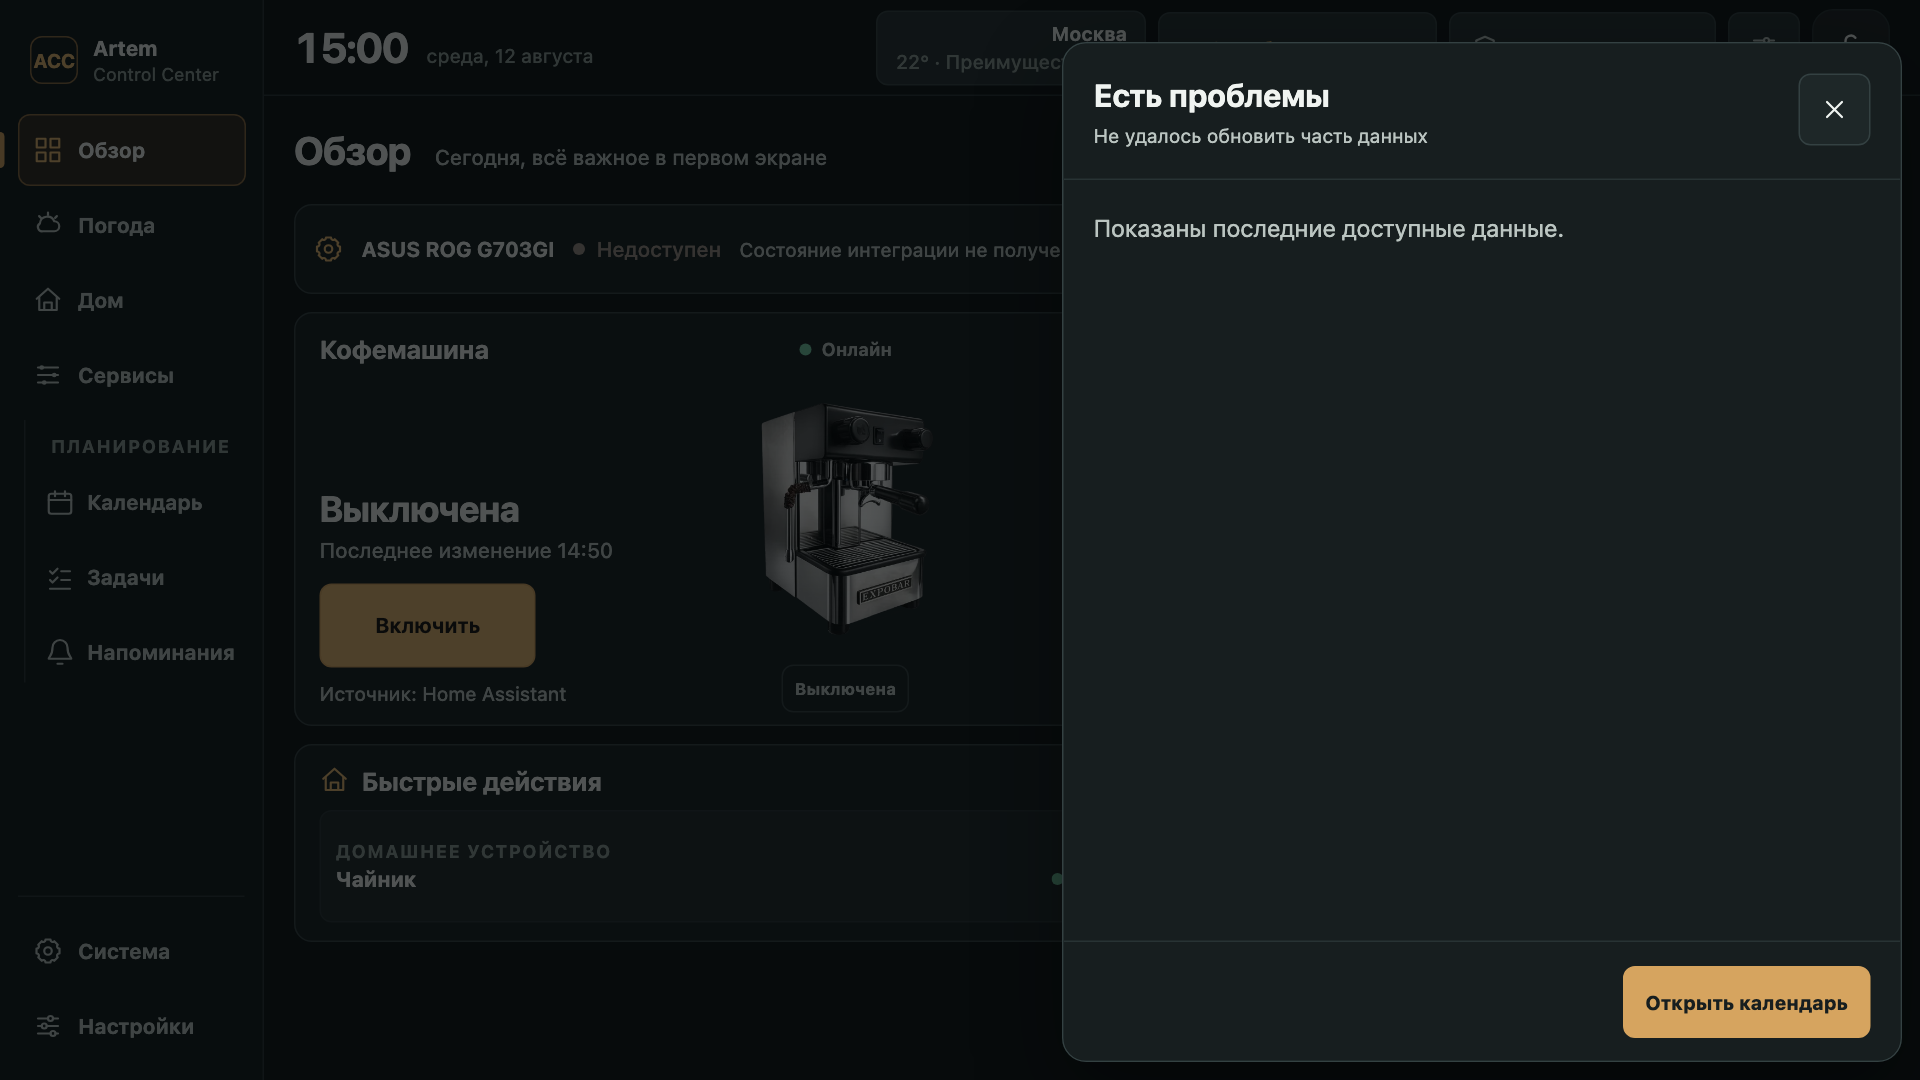
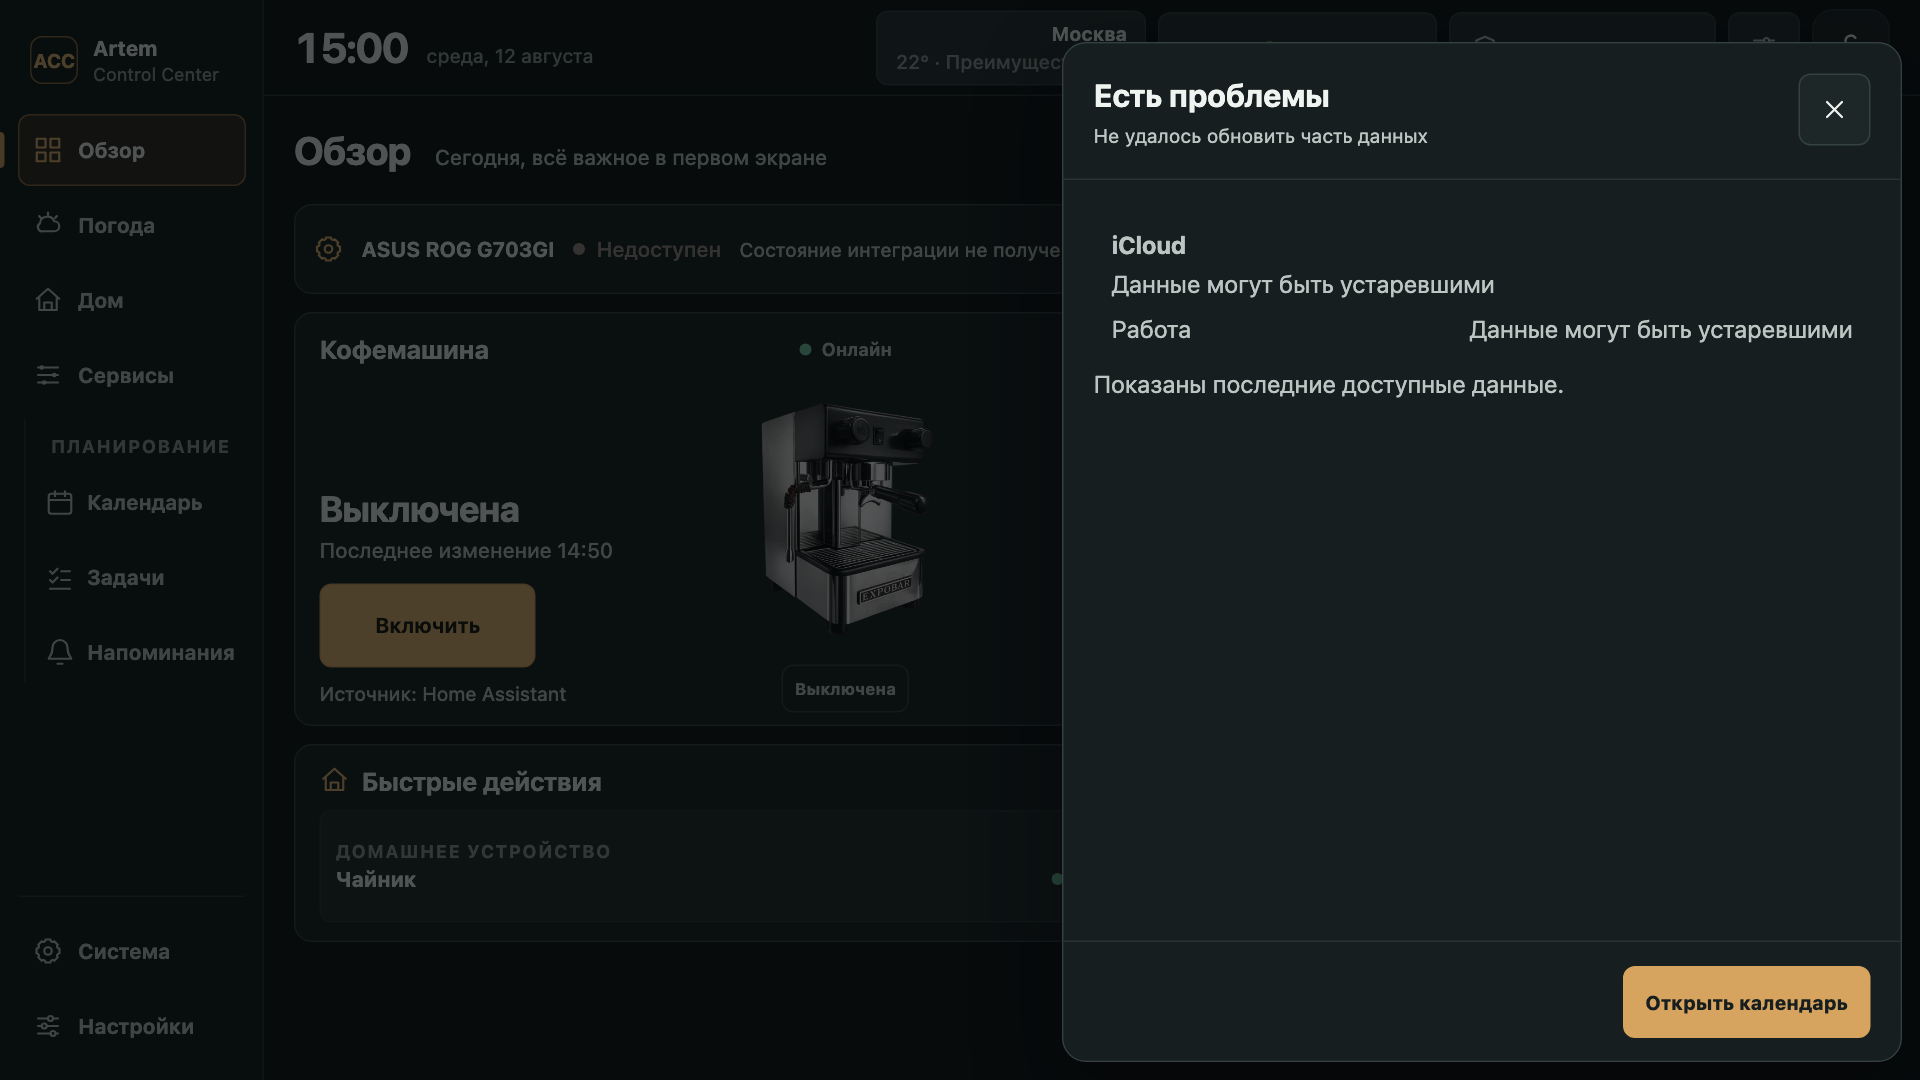
fix: explain planning health source issues

Changed region(s): [[0.5625, 0.1833, 0.8125, 0.275], [0.5625, 0.3056, 0.8438, 0.3667], [0.875, 0.3056, 0.9688, 0.3361]]

diff --git a/tests/e2e/issue-112-slice-b1.spec.ts b/tests/e2e/issue-112-slice-b1.spec.ts
@@ -1,7 +1,12 @@
 import { mkdir } from "node:fs/promises";
 import path from "node:path";
 import { expect, test, type Page, type TestInfo } from "@playwright/test";
-import type { PlanningCalendarEvent, PlanningSnapshot } from "../../packages/contracts/src/index";
+import type {
+  PlanningCalendarEvent,
+  PlanningProviderFreshnessStatus,
+  PlanningProviderStatus,
+  PlanningSnapshot
+} from "../../packages/contracts/src/index";
 import { planningFixtures } from "../../apps/dashboard/src/planningFixtures";
 
 const b1Enabled = [
@@ -121,6 +126,51 @@ async function installPlanningSnapshot(
     payload.planning = planning;
     await route.fulfill({ response, body: JSON.stringify(payload) });
   });
+}
+
+async function installUnavailablePlanningSnapshot(
+  page: Page,
+  getState: () => { revision: number }
+): Promise<void> {
+  await page.route("**/api/v1/snapshot**", async (route) => {
+    const response = await route.fetch();
+    const payload = await response.json() as Record<string, unknown>;
+    payload.revision = getState().revision;
+    delete payload.planning;
+    await route.fulfill({ response, body: JSON.stringify(payload) });
+  });
+}
+
+function providerStatus(
+  overrides: Partial<PlanningProviderStatus> & Pick<PlanningProviderStatus, "label" | "provider" | "status">
+): PlanningProviderStatus {
+  return {
+    id: `${overrides.provider}-source`,
+    kind: overrides.provider === "icloud" ? "external" : "native",
+    provider: overrides.provider,
+    label: overrides.label,
+    status: overrides.status,
+    configured: true,
+    lastSyncedAt: "2026-08-12T09:00:00Z",
+    observedAt: "2026-08-12T09:00:00Z",
+    calendars: [],
+    ...overrides
+  };
+}
+
+function calendarStatus(
+  label: string,
+  status: PlanningProviderFreshnessStatus
+): PlanningProviderStatus["calendars"][number] {
+  return {
+    id: label.toLowerCase(),
+    label,
+    color: "#E7B64A",
+    enabled: true,
+    status,
+    lastSyncedAt: "2026-08-12T09:00:00Z",
+    observedAt: "2026-08-12T09:00:00Z"
+  };
 }
 
 async function installCalendarFixture(
@@ -375,6 +425,15 @@ test.describe("Issue #112 Slice B1 physical polish", () => {
     await installSse(page);
     await installPlanningSnapshot(page, () => state, (planning) => {
       planning.calendar = { today: [], upcoming: [timedEvent], conflicts: [] };
+      planning.providerStatuses = [
+        providerStatus({
+          label: "iCloud",
+          provider: "icloud",
+          status: "stale",
+          calendars: [calendarStatus("Работа", "stale")]
+        }),
+        providerStatus({ label: "Local Planning", provider: "local", status: "current" })
+      ];
     });
     await installCalendarFixture(page, () => state, () => [timedEvent]);
     await page.goto("/overview");
@@ -382,8 +441,15 @@ test.describe("Issue #112 Slice B1 physical polish", () => {
     await expect(healthAction).toHaveText("Есть проблемы");
     await expect(healthAction).toHaveAttribute("aria-haspopup", "dialog");
     await healthAction.click();
-    await expect(page.getByTestId("planning-overview-health-details")).toContainText("Не удалось обновить часть данных");
-    await expect(page.getByTestId("planning-overview-health-details")).toContainText("Показаны последние доступные данные");
+    const healthDetails = page.getByTestId("planning-overview-health-details");
+    await expect(healthDetails).toContainText("iCloud");
+    await expect(healthDetails).toContainText("Данные могут быть устаревшими");
+    await expect(healthDetails).toContainText("Работа");
+    await expect(healthDetails).not.toContainText("Local Planning");
+    await expect(healthDetails.getByRole("button", { name: "Открыть календарь" })).toBeVisible();
+    await expect(healthDetails).not.toContainText("stale");
+    await expect(healthDetails).not.toContainText("error");
+    await expect(healthDetails).not.toContainText("API");
     await capture(page, testInfo, "overview-degraded-health-details.png");
     await page.getByTestId("planning-overview-health-details").getByRole("button", { name: "Закрыть" }).click();
 
@@ -394,6 +460,60 @@ test.describe("Issue #112 Slice B1 physical polish", () => {
     await capture(page, testInfo, "overview-calendar-deep-link.png");
     await page.getByRole("button", { name: "Сегодня" }).click();
     await expect(page.getByTestId("planning-calendar-selected-day-heading")).toContainText("12 августа");
+  });
+
+  test("Overview health details name only safe abnormal sources and fall back when the aggregate cannot identify one", async ({ page }) => {
+    const state = { revision: 1, status: "degraded" };
+    await installSse(page);
+    await installPlanningSnapshot(page, () => state, (planning) => {
+      planning.providerStatuses = [
+        providerStatus({
+          label: "iCloud",
+          provider: "icloud",
+          status: "error",
+          calendars: [calendarStatus("Семья", "error")]
+        }),
+        providerStatus({ label: "Local Planning", provider: "local", status: "current" })
+      ];
+    });
+    await page.goto("/overview");
+    await page.getByTestId("planning-overview-health-action").click();
+    const details = page.getByTestId("planning-overview-health-details");
+    await expect(details).toContainText("iCloud");
+    await expect(details).toContainText("Не удалось обновить данные");
+    await expect(details).toContainText("Семья");
+    await expect(details).not.toContainText("Local Planning");
+    await page.getByRole("button", { name: "Закрыть" }).click();
+
+    state.revision = 2;
+    await installPlanningSnapshot(page, () => state, (planning) => {
+      planning.providerStatuses = [
+        providerStatus({ label: "iCloud", provider: "icloud", status: "current" }),
+        providerStatus({ label: "Local Planning", provider: "local", status: "current" })
+      ];
+    });
+    await page.reload();
+    await page.getByTestId("planning-overview-health-action").click();
+    await expect(details).toContainText("Планирование сообщает о проблеме, но конкретный источник определить не удалось.");
+    await expect(details.getByRole("button", { name: "Открыть календарь" })).toHaveCount(0);
+  });
+
+  test("healthy and unavailable Overview states do not fabricate health source details", async ({ page }) => {
+    const healthyState = { revision: 1, status: "current" };
+    await installSse(page);
+    await installPlanningSnapshot(page, () => healthyState);
+    await page.goto("/overview");
+    await expect(page.getByTestId("planning-overview-health-action")).toHaveCount(0);
+
+    const unavailableState = { revision: 2 };
+    await installUnavailablePlanningSnapshot(page, () => unavailableState);
+    await page.reload();
+    await expect(page.getByTestId("planning-overview-health-action")).toHaveText("Планирование недоступно");
+    await page.getByTestId("planning-overview-health-action").click();
+    const details = page.getByTestId("planning-overview-health-details");
+    await expect(details).toContainText("Данные планирования сейчас недоступны.");
+    await expect(details.getByRole("button", { name: "Открыть календарь" })).toHaveCount(0);
+    await expect(details).not.toContainText("Local Planning");
   });
 
   test("all-day Overview events preserve their canonical date and invalid Calendar dates safely fall back to today", async ({ page }) => {

diff --git a/apps/dashboard/src/PlanningOverviewCard.tsx b/apps/dashboard/src/PlanningOverviewCard.tsx
@@ -1,5 +1,5 @@
 import { useEffect, useState } from "react";
-import type { PlanningSnapshot } from "@artem/contracts";
+import type { PlanningCalendarSourceCalendar, PlanningProviderFreshnessStatus, PlanningSnapshot } from "@artem/contracts";
 import type { ShellNavigationTarget } from "./Shell";
 import { Sheet } from "./Sheet";
 import { calendarLocalDateForEvent, calendarNavigationForDate, type CalendarNavigationTarget } from "./calendarNavigation";
@@ -95,6 +95,53 @@ function unavailableRowTitle(health: ReturnType<typeof planningHealthPresentatio
   return health.state === "offline" || health.state === "stale" ? "Данные недоступны" : emptyTitle;
 }
 
+type PlanningHealthProblem = {
+  provider: string;
+  kind: "native" | "external";
+  providerLabel: string;
+  providerStatus: string | null;
+  calendars: Array<{ label: string; status: string }>;
+};
+
+const MAX_HEALTH_PROVIDERS = 3;
+const MAX_HEALTH_CALENDARS = 2;
+
+function ownerFacingFreshness(status: PlanningProviderFreshnessStatus): string | null {
+  switch (status) {
+    case "stale":
+      return "Данные могут быть устаревшими";
+    case "error":
+      return "Не удалось обновить данные";
+    case "current":
+    case "disabled":
+    case "not_configured":
+      return null;
+  }
+}
+
+function abnormalCalendars(calendars: PlanningCalendarSourceCalendar[]): Array<{ label: string; status: string }> {
+  return calendars
+    .filter((calendar) => calendar.enabled)
+    .flatMap((calendar) => {
+      const status = ownerFacingFreshness(calendar.status);
+      return status ? [{ label: calendar.label, status }] : [];
+    })
+    .slice(0, MAX_HEALTH_CALENDARS);
+}
+
+function planningHealthProblems(planning: PlanningSnapshot): PlanningHealthProblem[] {
+  return planning.providerStatuses
+    .filter((provider) => provider.configured)
+    .flatMap((provider) => {
+      const providerStatus = ownerFacingFreshness(provider.status);
+      const calendars = abnormalCalendars(provider.calendars);
+      return providerStatus || calendars.length > 0
+        ? [{ provider: provider.provider, kind: provider.kind, providerLabel: provider.label, providerStatus, calendars }]
+        : [];
+    })
+    .slice(0, MAX_HEALTH_PROVIDERS);
+}
+
 function planningHealthDetail(health: ReturnType<typeof planningHealthPresentation>): { title: string; description: string; detail: string } {
   const retainedData = health.hasLastGoodData
     ? "Показаны последние доступные данные."
@@ -114,15 +161,20 @@ function planningHealthDetail(health: ReturnType<typeof planningHealthPresentati
 }
 
 function PlanningHealthAction({
+  planning,
   health,
   onNavigate
 }: {
+  planning?: PlanningSnapshot | null;
   health: ReturnType<typeof planningHealthPresentation>;
   onNavigate: (target: PlanningNavigationTarget) => void;
 }) {
   const [open, setOpen] = useState(false);
   if (health.state === "current" || !health.label) return null;
   const detail = planningHealthDetail(health);
+  const problems = planning ? planningHealthProblems(planning) : [];
+  const sourceCouldNotBeDetermined = Boolean(planning) && problems.length === 0;
+  const canOpenCalendar = problems.some((problem) => problem.kind === "external" && problem.provider === "icloud");
   return (
     <>
       <button
@@ -141,9 +193,37 @@ function PlanningHealthAction({
           description={detail.description}
           testId="planning-overview-health-details"
           onClose={() => setOpen(false)}
-          footer={<button type="button" className="planning-primary-button" onClick={() => onNavigate("/calendar")}>Открыть календарь</button>}
+          footer={canOpenCalendar ? (
+            <button type="button" className="planning-primary-button" onClick={() => onNavigate("/calendar")}>Открыть календарь</button>
+          ) : undefined}
         >
-          <p className="planning-overview-health-details__copy">{detail.detail}</p>
+          {!planning && <p className="planning-overview-health-details__copy">Данные планирования сейчас недоступны.</p>}
+          {sourceCouldNotBeDetermined && (
+            <p className="planning-overview-health-details__copy">
+              Планирование сообщает о проблеме, но конкретный источник определить не удалось.
+            </p>
+          )}
+          {problems.length > 0 && (
+            <ul className="planning-overview-health-details__problems" aria-label="Проблемные источники">
+              {problems.map((problem) => (
+                <li className="planning-overview-health-details__problem" key={`${problem.provider}:${problem.providerLabel}`}>
+                  <strong>{problem.providerLabel}</strong>
+                  {problem.providerStatus && <span>{problem.providerStatus}</span>}
+                  {problem.calendars.length > 0 && (
+                    <ul className="planning-overview-health-details__calendars">
+                      {problem.calendars.map((calendar) => (
+                        <li key={`${problem.provider}:${calendar.label}`}>
+                          <span>{calendar.label}</span>
+                          <span>{calendar.status}</span>
+                        </li>
+                      ))}
+                    </ul>
+                  )}
+                </li>
+              ))}
+            </ul>
+          )}
+          {planning && <p className="planning-overview-health-details__copy">{detail.detail}</p>}
         </Sheet>
       )}
     </>
@@ -172,9 +252,9 @@ export function PlanningOverviewCard({
             <p className="section-kicker">Планирование</p>
             <h2>Дела</h2>
           </div>
-          <PlanningHealthAction health={health} onNavigate={onNavigate} />
+          <PlanningHealthAction planning={planning} health={health} onNavigate={onNavigate} />
         </header>
-        <p className="planning-card__unavailable-copy">Данные пока недоступны. Повторите попытку.</p>
+        <p className="planning-card__unavailable-copy">Данные планирования сейчас недоступны.</p>
       </section>
     );
   }
@@ -207,7 +287,7 @@ export function PlanningOverviewCard({
           <p className="section-kicker">Планирование</p>
           <h2>Дела</h2>
         </div>
-        <PlanningHealthAction health={health} onNavigate={onNavigate} />
+        <PlanningHealthAction planning={planning} health={health} onNavigate={onNavigate} />
       </header>
 
       <div className="planning-card__rows">

diff --git a/apps/dashboard/src/styles.css b/apps/dashboard/src/styles.css
@@ -700,6 +700,36 @@ p { color: var(--text-secondary); }
 }
 .planning-card__health--action:hover { background: var(--surface-hover); }
 .planning-overview-health-details__copy { margin: 0; color: var(--text-secondary); line-height: 1.5; }
+.planning-overview-health-details__problems {
+  display: grid;
+  gap: var(--space-3);
+  margin: 0;
+  padding: 0;
+  list-style: none;
+}
+.planning-overview-health-details__problem {
+  display: grid;
+  gap: 3px;
+  padding: var(--space-3);
+  border: 1px solid var(--border-subtle);
+  border-radius: var(--radius-control);
+  background: var(--surface-raised);
+  color: var(--text-secondary);
+  line-height: 1.45;
+}
+.planning-overview-health-details__problem > strong { color: var(--text-primary); }
+.planning-overview-health-details__calendars {
+  display: grid;
+  gap: 3px;
+  margin: var(--space-1) 0 0;
+  padding: 0;
+  list-style: none;
+}
+.planning-overview-health-details__calendars li {
+  display: flex;
+  justify-content: space-between;
+  gap: var(--space-3);
+}
 .planning-card--stale .planning-card__health { color: var(--stale); }
 .planning-card--offline .planning-card__health,
 .planning-card--unavailable .planning-card__health { color: var(--danger); }
